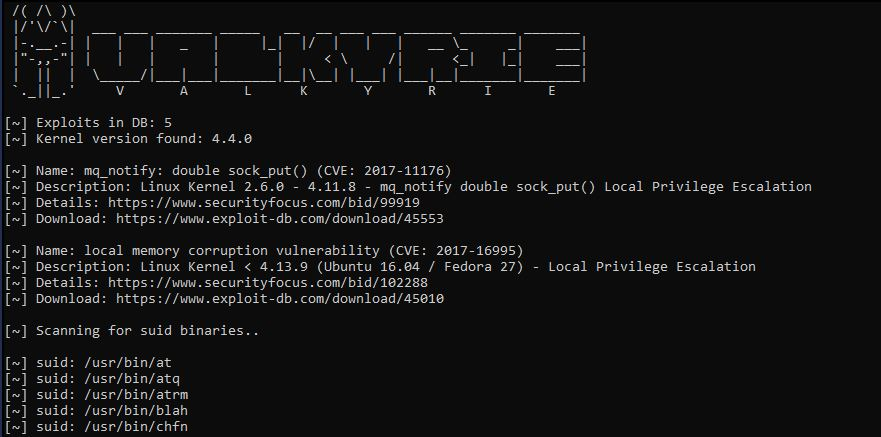
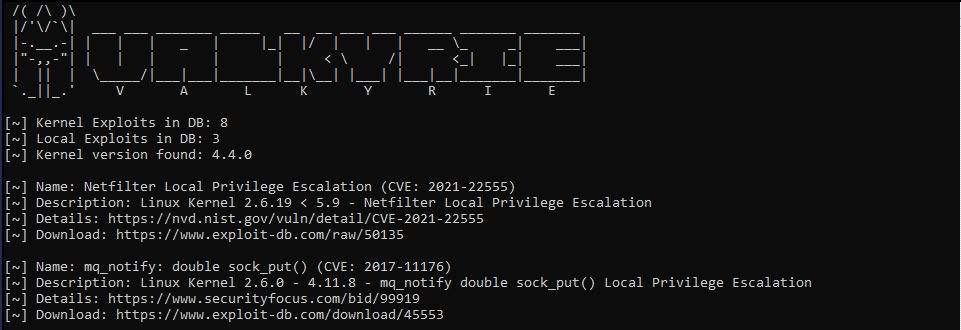
scan for local exploits
functionality added which checks for version of installed tools and compares them with an exploit db

diff --git a/valkyrie.py b/valkyrie.py
@@ -10,7 +10,7 @@
       |  ||  |  \_____/|___|___|_______|__|\__| |___| |___|__|_______|_______|
       `._||_.'
    
-		VALKYRIE - 0.2
+		VALKYRIE - 0.3
 		
 		Written by Peter Bartels
 		
@@ -24,6 +24,10 @@
         Initial pre-release, some functionality is still missing.
         Database will be extended.
         Future functionality will be added.
+        
+        Version 0.3:
+            + scans for installed tools and versions, suggests local exploits for
+            + minor fixes
 
         Version 0.2:
             + added more exploits to db
@@ -39,10 +43,10 @@
 import sys
 import argparse
 import os
-import pwd
-import grp
 import platform
 import json
+import re
+import subprocess
 
 binpaths = ["/usr/bin","/usr/sbin","/bin","/sbin"]
 
@@ -54,6 +58,45 @@ intfiles = ["/etc/passwd",
             "/etc/motd",
             "/etc/resolv.conf",
             "/etc/crontab"]
+
+bintools = ["sudo","screen"]
+
+tooldb = '''
+[
+    {
+        "program" : "screen",
+        "name" : "GNU screen privilege escalation",
+        "description" : "GNU screen v4.9.0 - Privilege Escalation (Arch / FreeBSD)",
+        "cve" : "2023-24626",
+        "details" : "https://nvd.nist.gov/vuln/detail/CVE-2023-24626",
+        "download" : "https://www.exploit-db.com/raw/51252",
+        "language" : "python",
+        "minver" : "4.9.0",
+        "maxver" : "4.9.0"
+    },
+    {
+        "program" : "screen",
+        "name" : "GNU screen privilege escalation",
+        "description" : "GNU screen v4.5.0 - Privilege Escalation",
+        "cve" : "none",
+        "details" : "https://www.exploit-db.com/exploits/41154",
+        "download" : "https://www.exploit-db.com/raw/41154",
+        "language" : "c",
+        "minver" : "4.5.0",
+        "maxver" : "4.5.0"
+    },
+    {
+        "program" : "sudo",
+        "name" : "sudo privilege escalation",
+        "description" : "sudo 1.8.0 to 1.9.12p1 - Privilege Escalation",
+        "cve" : "2023-22809",
+        "details" : "https://nvd.nist.gov/vuln/detail/CVE-2023-22809",
+        "download" : "https://www.exploit-db.com/raw/51217",
+        "language" : "python",
+        "minver" : "1.8.0",
+        "maxver" : "1.9.12"
+    }
+]'''
 
 #database for vulnerable kernels, perhaps extern file in future?
 datadb = '''
@@ -221,7 +264,6 @@ def version_to_tuple(version):
     return tuple(splitted)
 
 
-
 def is_vulnerable(myversion,minversion,maxversion):
     """
 
@@ -235,6 +277,24 @@ def is_vulnerable(myversion,minversion,maxversion):
     else:
         return False
 
+
+def check_for_vuln_tool(program,myversion,mydb):
+    """
+
+    check_for_vuln_tool(string,tuple,json) -> no return, just output
+
+    Function checks the given program and its version against the database looking for potential exploits
+    
+    """
+    for item in mydb:
+        #print (item['program'])
+        if (program == item['program']):
+            if is_vulnerable(myversion,version_to_tuple(item['minver']),version_to_tuple(item['maxver'])):
+                print("\n[~] Name: "+item['name']+" (CVE: "+item['cve']+")")
+                print("[~] Description: "+item['description'])
+                print("[~] Details: "+item['details'])
+                print("[~] Download: "+item['download']+"\n")
+                #print(" -- "+get_filename(item['download']))
 
 def check_for_vuln(myversion,mydb):
     """
@@ -252,6 +312,39 @@ def check_for_vuln(myversion,mydb):
             print("[~] Download: "+item['download'])
             #print(" -- "+get_filename(item['download']))
 
+
+def get_installed_program_version(program_name):
+    """
+
+    get_installed_program_version(string) -> string
+
+    executes a given program and returns the version number of it
+
+    """
+    try:
+        # Run a shell command to get the version of the program
+        version_info = subprocess.check_output([program_name, '--version'], stderr=subprocess.STDOUT, text=True)
+        
+        # Use regular expressions to extract the version number
+        version_match = re.search(r'(\d+\.\d+(\.\d+)?)', version_info)
+        
+        if version_match:
+            return version_match.group(1)
+        else:
+            return "Version not found"
+    except subprocess.CalledProcessError as e:
+        # Handle the case when the program doesn't exist or --version is not supported
+        return f"Error: {e.returncode}\n{e.output}"
+    except FileNotFoundError:
+        # Handle the case when the program is not found
+        return f"Error: {program_name} not found"
+
+
+def scan_for_local(proglist,dbtool):
+    for item in proglist:
+        version = get_installed_program_version(item)
+        print("Version of "+item+": "+version)
+        check_for_vuln_tool(item,version_to_tuple(version),dbtool)
 
 def is_directory_writable(directory):
     """
@@ -330,12 +423,13 @@ def infoheader():
 
 
 if __name__=="__main__":
-    parser = argparse.ArgumentParser("%prog [options] arg1 arg2")
+    parser = argparse.ArgumentParser(prog="valkyrie.py",usage="%(prog)s [options] arg1 arg2")
     parser.add_argument("-d", "--detect", dest="detect",default=False, action="store_true",help="automatically gets the kernel version and checks for exploits")
     parser.add_argument("-m", "--manual", dest="manual",default="0.0.0",help="specify the kernel version e.g. 2.6.18 and check for exploits")
+    parser.add_argument("-l", "--local", dest="lsploit",default=False, action="store_true",help="automatically gets the version of installed tools and checks for exploits")
     parser.add_argument("-s", "--suid",dest="suidfile",default=False, action="store_true",help="find suid binary files in default bin dirs")
     parser.add_argument("-r", "--read",dest="readint",default=False, action="store_true",help="find interesting readable files")
-    parser.add_argument("-w", "--write", dest="wdir",default="/",help="specify the root directory to scan for writeable directories")
+    parser.add_argument("-w", "--write", dest="wdir",default="",help="specify the root directory to scan for writeable directories")
     options = parser.parse_args()
     if len(sys.argv) < 2:
         infoheader()
@@ -344,11 +438,14 @@ if __name__=="__main__":
     else:
         detect = options.detect
         kernel = options.manual
+        ldetect = options.lsploit
         sfile = options.suidfile
         rdir = options.wdir
+        tbase = json.loads(tooldb)
         dbase = json.loads(datadb)
         infoheader()
-        print("[~] Exploits in DB: "+str(len(dbase)))
+        print("[~] Kernel Exploits in DB: "+str(len(dbase)))
+        print("[~] Local Exploits in DB: "+str(len(tbase)))
         if options.detect:
             detected_kernel = get_kernel_version()
             print("[~] Kernel version found: "+detected_kernel)
@@ -356,13 +453,16 @@ if __name__=="__main__":
         elif kernel != "0.0.0":
             print("[~] Kernel version given: "+kernel)
             check_for_vuln(version_to_tuple(kernel),dbase)
+        if options.lsploit:
+            print("\n[~] Scanning for local exploits among installed tools..\n")
+            scan_for_local(bintools,tbase)
         if options.suidfile:
             print("\n[~] Scanning for suid binaries..\n")
             check_paths_for_suid()
         if options.readint:
             print("\n[~] Scanning for interesting readable files..\n")
             check_files_reading(intfiles)
-        if rdir:
+        if options.wdir:
             print("\n[~] Scanning for writeable directories..")
             print("[~] Rootdir: "+rdir+"\n")
             scan_writable_directories(fix_directory_path(rdir))

diff --git a/README.md b/README.md
@@ -3,12 +3,13 @@
 # Valkyrie
 Support tool for local privilege escalation on linux machines.
 
-Version: 0.2
+Version: 0.3
 
 ## What is Valkyrie?
 
 Valkyrie supports you finding possibilities for local privilege escalation by:
 - detecting kernel version and recommending local exploits
+- checking version of installed tools and recommending local exploits
 - finding suid binaries
 - finding interesting files you can read
 - scanning for directories with write permission
@@ -27,6 +28,10 @@ Manually name the version of the kernel:
 
 > python valkyrie.py -m 4.4.2
 
+Check installed tools for local exploits:
+
+> python valkyrie.py -l
+
 Finding binaries with suid permission:
 
 > python valkyrie.py -s
@@ -41,8 +46,13 @@ Scanning for directories you have permission to write:
 
 ## Exploit database
 
-the exploit database is currently quite limited and only contains 8 entries. In the next versions, the database will be extended.
+the exploit database is currently quite limited and only contains 8 entries. the database for local exploits has 3 entries.
+In the next versions, the database will be extended.
 
 ## Screenshot
 
 ![Screenshot](https://github.com/pbkangafoo/valkyrie/blob/main/screenshot_valk.JPG "valkyrie screenshot")
+
+![Screenshot](https://github.com/pbkangafoo/valkyrie/blob/main/screenshot_valk2.JPG "valkyrie screenshot")
+
+![Screenshot](https://github.com/pbkangafoo/valkyrie/blob/main/screenshot_valk3.JPG "valkyrie screenshot")
